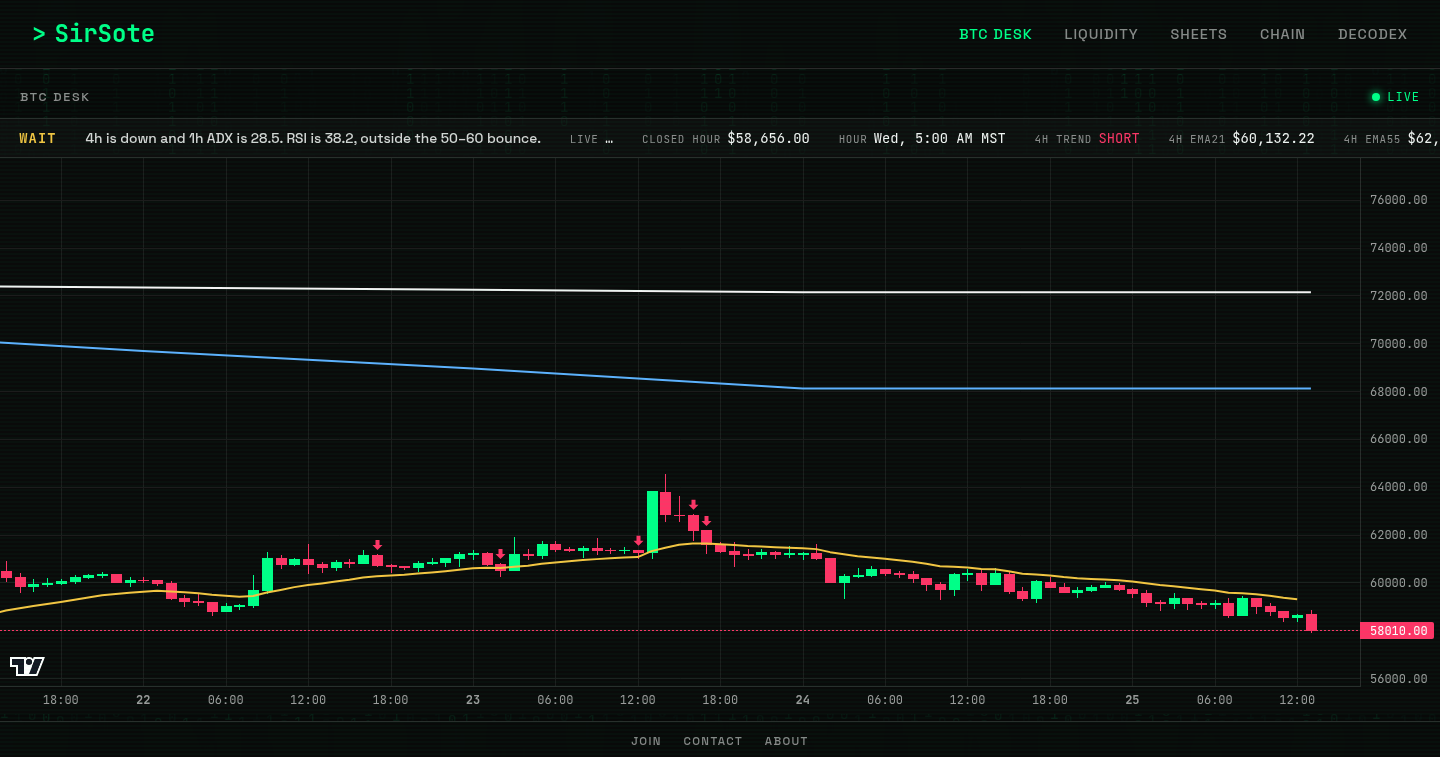
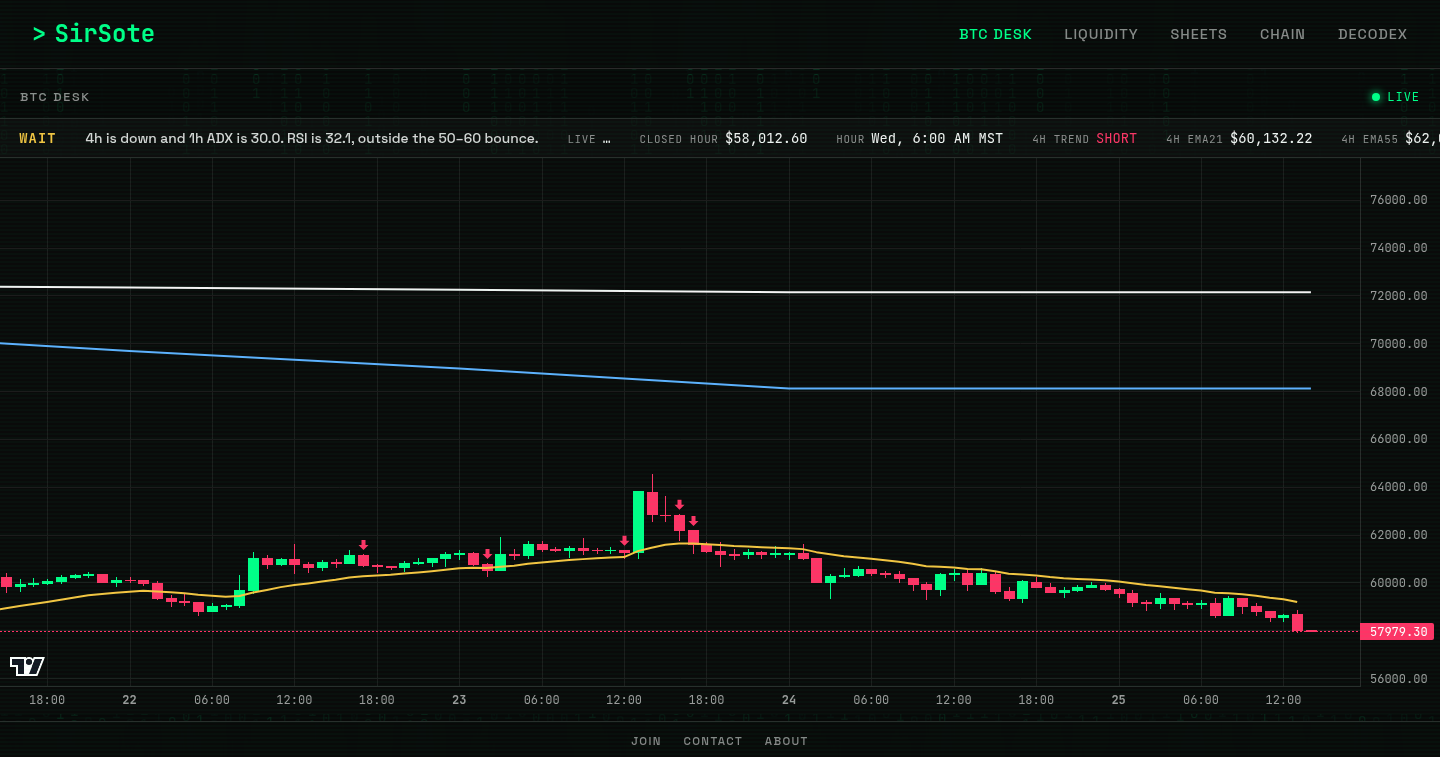
Update the sheet.

diff --git a/p/sheets/index.html b/p/sheets/index.html
@@ -30,15 +30,15 @@
     </header>
     <main>
         <article class="sheet">
-        <p class="sheet-kicker">BTC Desk · Update · <strong>6:59 AM MST</strong></p>
+        <p class="sheet-kicker">BTC Desk · Update · <strong>7:00 AM MST</strong></p>
         <dl class="lines">
-            <div><dt>Day</dt><dd><span class="call wait">WAIT</span> · <span class="price">$58,656.00</span></dd></div>
+            <div><dt>Day</dt><dd><span class="call wait">WAIT</span> · <span class="price">$58,012.60</span></dd></div>
             <div><dt>Swing</dt><dd><span class="call short">SHORT</span></dd></div>
             <div><dt>Hold</dt><dd><span class="call short">SHORT</span></dd></div>
         </dl>
-        <p class="why">Book <span class="call short">fights the path</span></p>
-        <p class="since">Unchanged since <strong>6:00 AM MST</strong></p>
-        <p class="why">4h is down and 1h ADX is 28.5. RSI is 38.2, outside the 50–60 bounce.</p>
+        
+        
+        <p class="why">4h is down and 1h ADX is 30.0. RSI is 32.1, outside the 50–60 bounce.</p>
         
         <p class="fine"><a href="https://sirsote.com/p/btc-desk/">https://sirsote.com/p/btc-desk/</a></p>
         <p class="fine">Rules readout. The next move can ignore it.</p>
